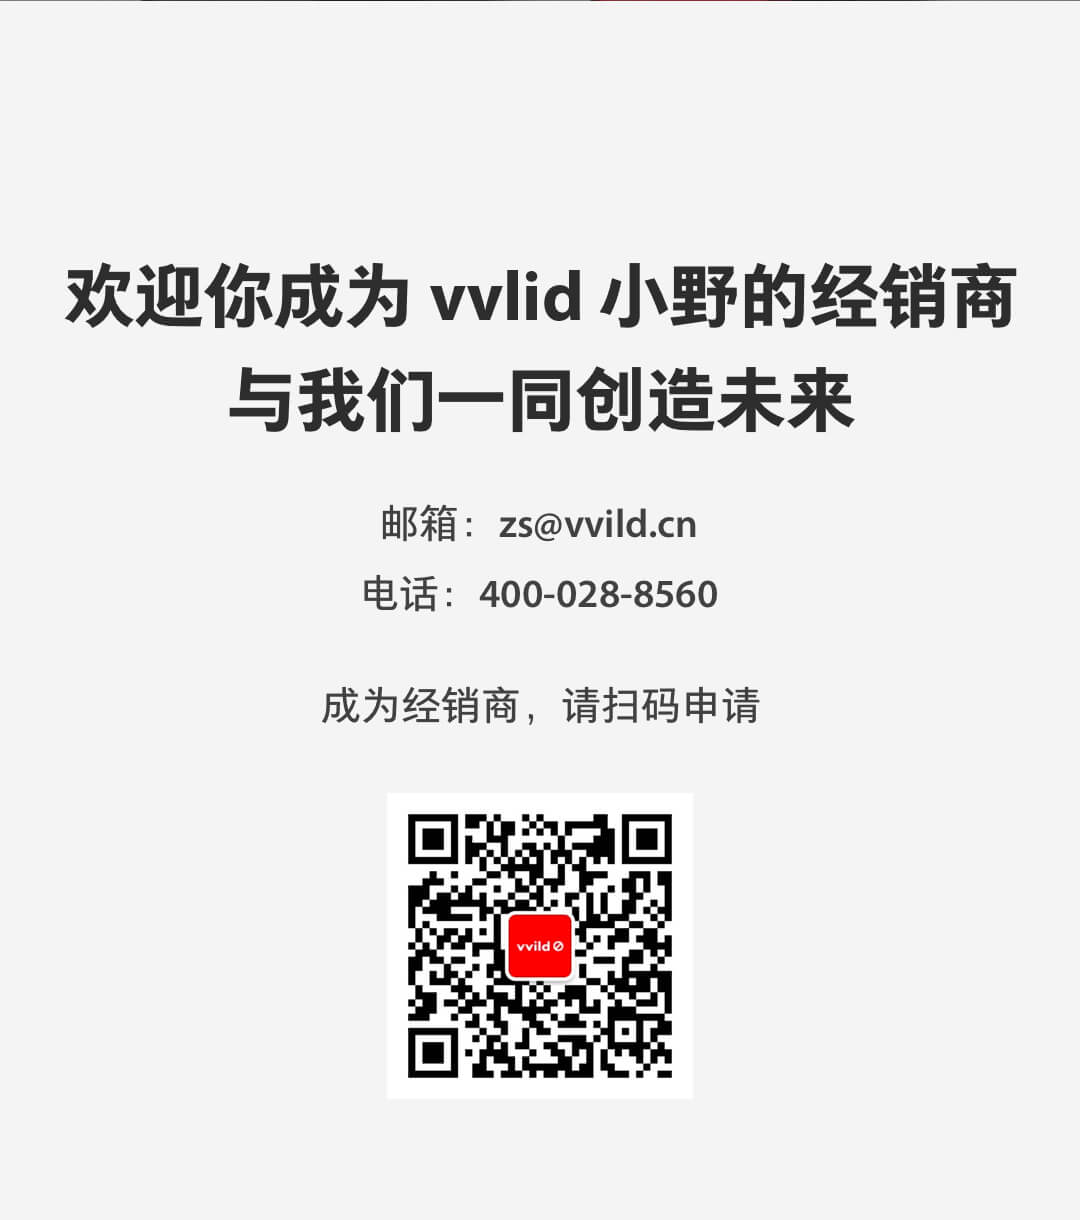
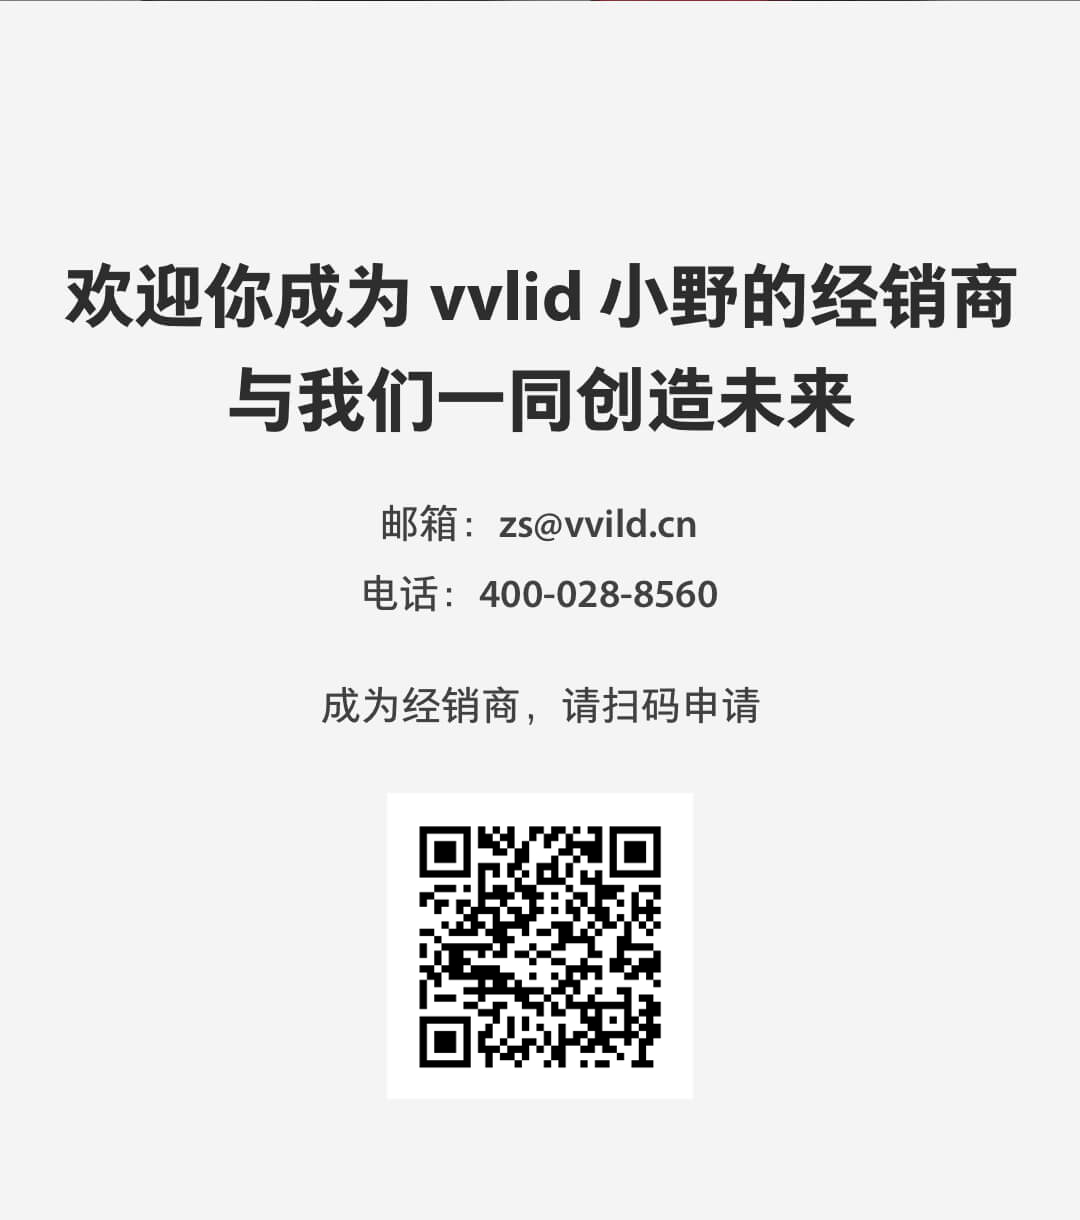
fix: update qrcode and company infos.

Changed region(s): [[0.3667, 0.6541, 0.6417, 0.9033]]

diff --git a/pages/index.vue b/pages/index.vue
@@ -9,7 +9,7 @@
     <img src="../assets/images/home/home-img-3@3x.jpg" alt="去除了上百种你看不到的危害，烟油成分包含丙二醇、植物甘油、尼古丁盐、香料。消灭了传统香烟中大量因燃烧产生的包括焦油和一氧化碳在内的上百种有害、有毒物质" />
     <img src="../assets/images/home/home-img-4@3x.jpg" alt="也去除了许多你看得到的危害，小野电子烟在减少身体伤害的同时，也避免了香烟带来的口臭、牙黄等问题" />
     <img src="../assets/images/home/home-img-5@3x.jpg" alt="vvild 小野雾化电子烟 V0 已经过严格的检测工序，符合欧盟电子烟设备要求 CE-RoHS 认证，符合国家标准家用和类似用途电器安全要求，符合国家香料香精《烟用香精标准》，符合国家食品安全标准 “急性毒性试验”，符合国家食品安全标准的 “食品添加剂中重金属试验”，符合国家食品安全标准 “食品中邻苯二甲酸酯的测定”，符合国家食品安全标准 “食品微生物学检验 菌落总数测定”，符合国家食品安全标准 “食品微生物学检验 霉菌和酵母计数”，符合国家食品安全标准 “食品卫生微生物学检验 大肠菌群测定”，符合国家食品安全标准 “食品中总砷及无机砷试验”" />
-    <img src="../assets/images/home/home-img-6@3x.png" alt="未成年人禁用提醒，成都小野未来科技坚持遵守国家市场监督管理总局、国家烟草专卖局发布的《关于禁止向未成年人出售电子烟的通告》，不会向未成年人出售电子烟产品。特别提醒：电子烟属于尼古丁制品，未成年人禁止使用，非吸烟者请勿尝试。孕妇及哺乳期妇女、心血管及呼吸道相关疾病患者禁止使用；请根据自身情况合理使用，若出现不适反应，请立即停止使用；请遵循国家法律法规，请勿在公共场合及明确标明禁止吸烟的场所使用电子烟及相关产品。" />
+    <img src="../assets/images/home/home-img-6@3x.png" alt="未成年人禁用提醒，深圳小野科技坚持遵守国家市场监督管理总局、国家烟草专卖局发布的《关于禁止向未成年人出售电子烟的通告》，不会向未成年人出售电子烟产品。特别提醒：电子烟属于尼古丁制品，未成年人禁止使用，非吸烟者请勿尝试。孕妇及哺乳期妇女、心血管及呼吸道相关疾病患者禁止使用；请根据自身情况合理使用，若出现不适反应，请立即停止使用；请遵循国家法律法规，请勿在公共场合及明确标明禁止吸烟的场所使用电子烟及相关产品。" />
   </div>
 </div>
 </template>

diff --git a/pages/product.vue b/pages/product.vue
@@ -13,7 +13,7 @@
       <img src="../assets/images/product/product-img-6@3x.jpg" alt="严防死守，拒绝漏油。油气分离设计，三重硅胶密封，冷凝槽独立防漏技术，五合一强力防漏，更大程度降低漏油风险" />
       <img src="../assets/images/product/product-img-7@3x.jpg" alt="充电一次，享受一天，350mAh 锂电池，Type-C 充电口，面对四种常见问题，均有安全保护机制，续航更持久，使用更安全" />
       <img src="../assets/images/product/product-img-8@3x.jpg" alt="vvild 小野雾化电子烟 V0 已经过严格的检测工序，符合欧盟电子烟设备要求 CE-RoHS 认证，符合国家标准家用和类似用途电器安全要求，符合国家香料香精《烟用香精标准》，符合国家食品安全标准 “急性毒性试验”，符合国家食品安全标准的 “食品添加剂中重金属试验”，符合国家食品安全标准 “食品中邻苯二甲酸酯的测定”，符合国家食品安全标准 “食品微生物学检验 菌落总数测定”，符合国家食品安全标准 “食品微生物学检验 霉菌和酵母计数”，符合国家食品安全标准 “食品卫生微生物学检验 大肠菌群测定”，符合国家食品安全标准 “食品中总砷及无机砷试验”" />
-      <img src="../assets/images/product/product-img-9@3x.jpg" alt="未成年人禁用提醒，成都小野未来科技坚持遵守国家市场监督管理总局、国家烟草专卖局发布的《关于禁止向未成年人出售电子烟的通告》，不会向未成年人出售电子烟产品。特别提醒：电子烟属于尼古丁制品，未成年人禁止使用，非吸烟者请勿尝试。孕妇及哺乳期妇女、心血管及呼吸道相关疾病患者禁止使用；请根据自身情况合理使用，若出现不适反应，请立即停止使用；请遵循国家法律法规，请勿在公共场合及明确标明禁止吸烟的场所使用电子烟及相关产品。" />
+      <img src="../assets/images/product/product-img-9@3x.jpg" alt="未成年人禁用提醒，深圳小野科技坚持遵守国家市场监督管理总局、国家烟草专卖局发布的《关于禁止向未成年人出售电子烟的通告》，不会向未成年人出售电子烟产品。特别提醒：电子烟属于尼古丁制品，未成年人禁止使用，非吸烟者请勿尝试。孕妇及哺乳期妇女、心血管及呼吸道相关疾病患者禁止使用；请根据自身情况合理使用，若出现不适反应，请立即停止使用；请遵循国家法律法规，请勿在公共场合及明确标明禁止吸烟的场所使用电子烟及相关产品。" />
     </div>
   </transition>
 </div>

diff --git a/pages/aboutus.vue b/pages/aboutus.vue
@@ -8,7 +8,7 @@
     <template v-slot:card-list>
       <div class="card-content">
         <div class="introduce">
-          <p>成都小野未来科技有限公司是一家雾化电子烟制造与销售公司。创始团队来自华为、锤子科技等知名品牌，团队具有丰富的电子消费品设计、生产、营销及销售经验。</p>
+          <p>深圳小野科技有限公司是一家雾化电子烟制造与销售公司。创始团队来自华为、锤子科技等知名品牌，团队具有丰富的电子消费品设计、生产、营销及销售经验。</p>
           <p>未来，我们有信心在在全球 5600 亿美金的烟草市场中，凭借自身优越的产品设计、生产研发、市场营销等能力，在巨大的行业内掀起风浪，成为电子烟领域的行业佼佼者。</p>
         </div>
         <h4 class="subtitle">我们的使命和愿景</h4>
